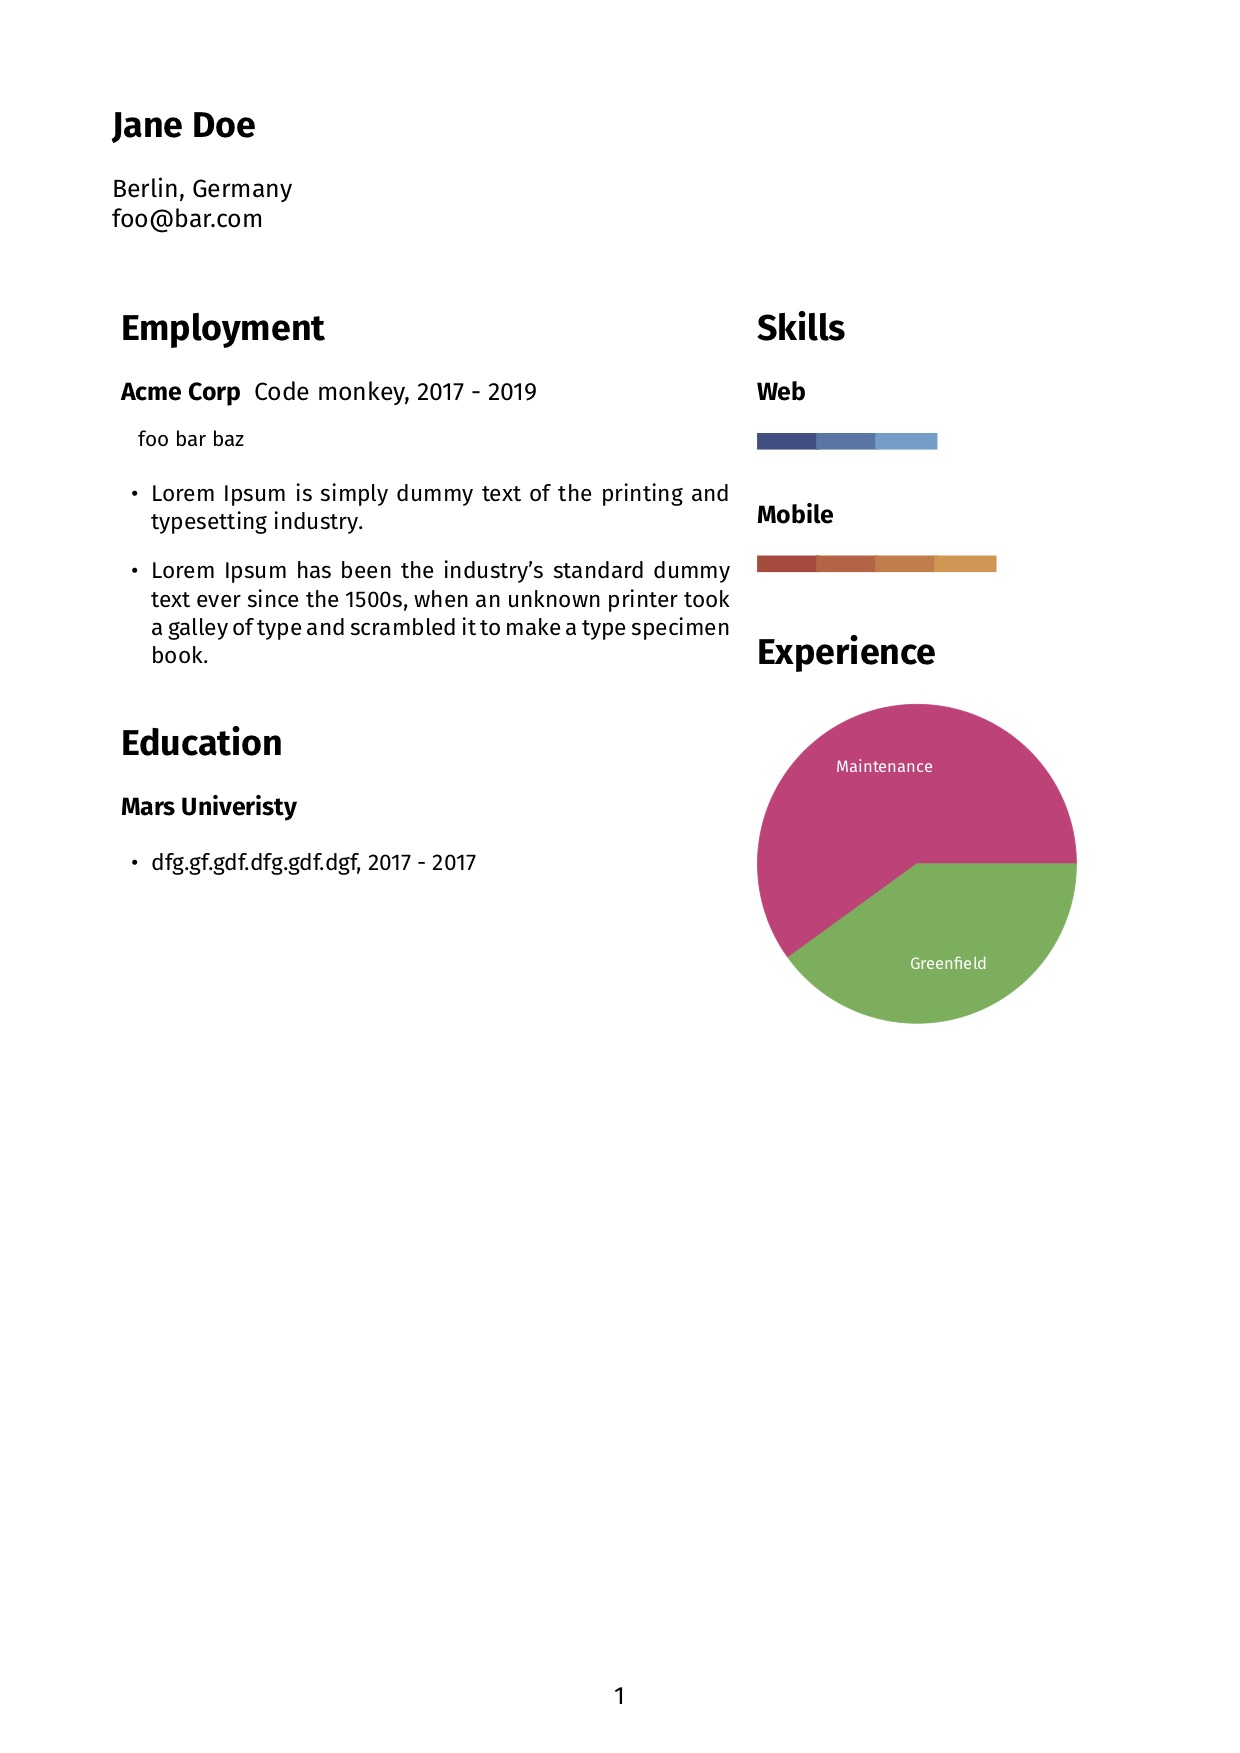
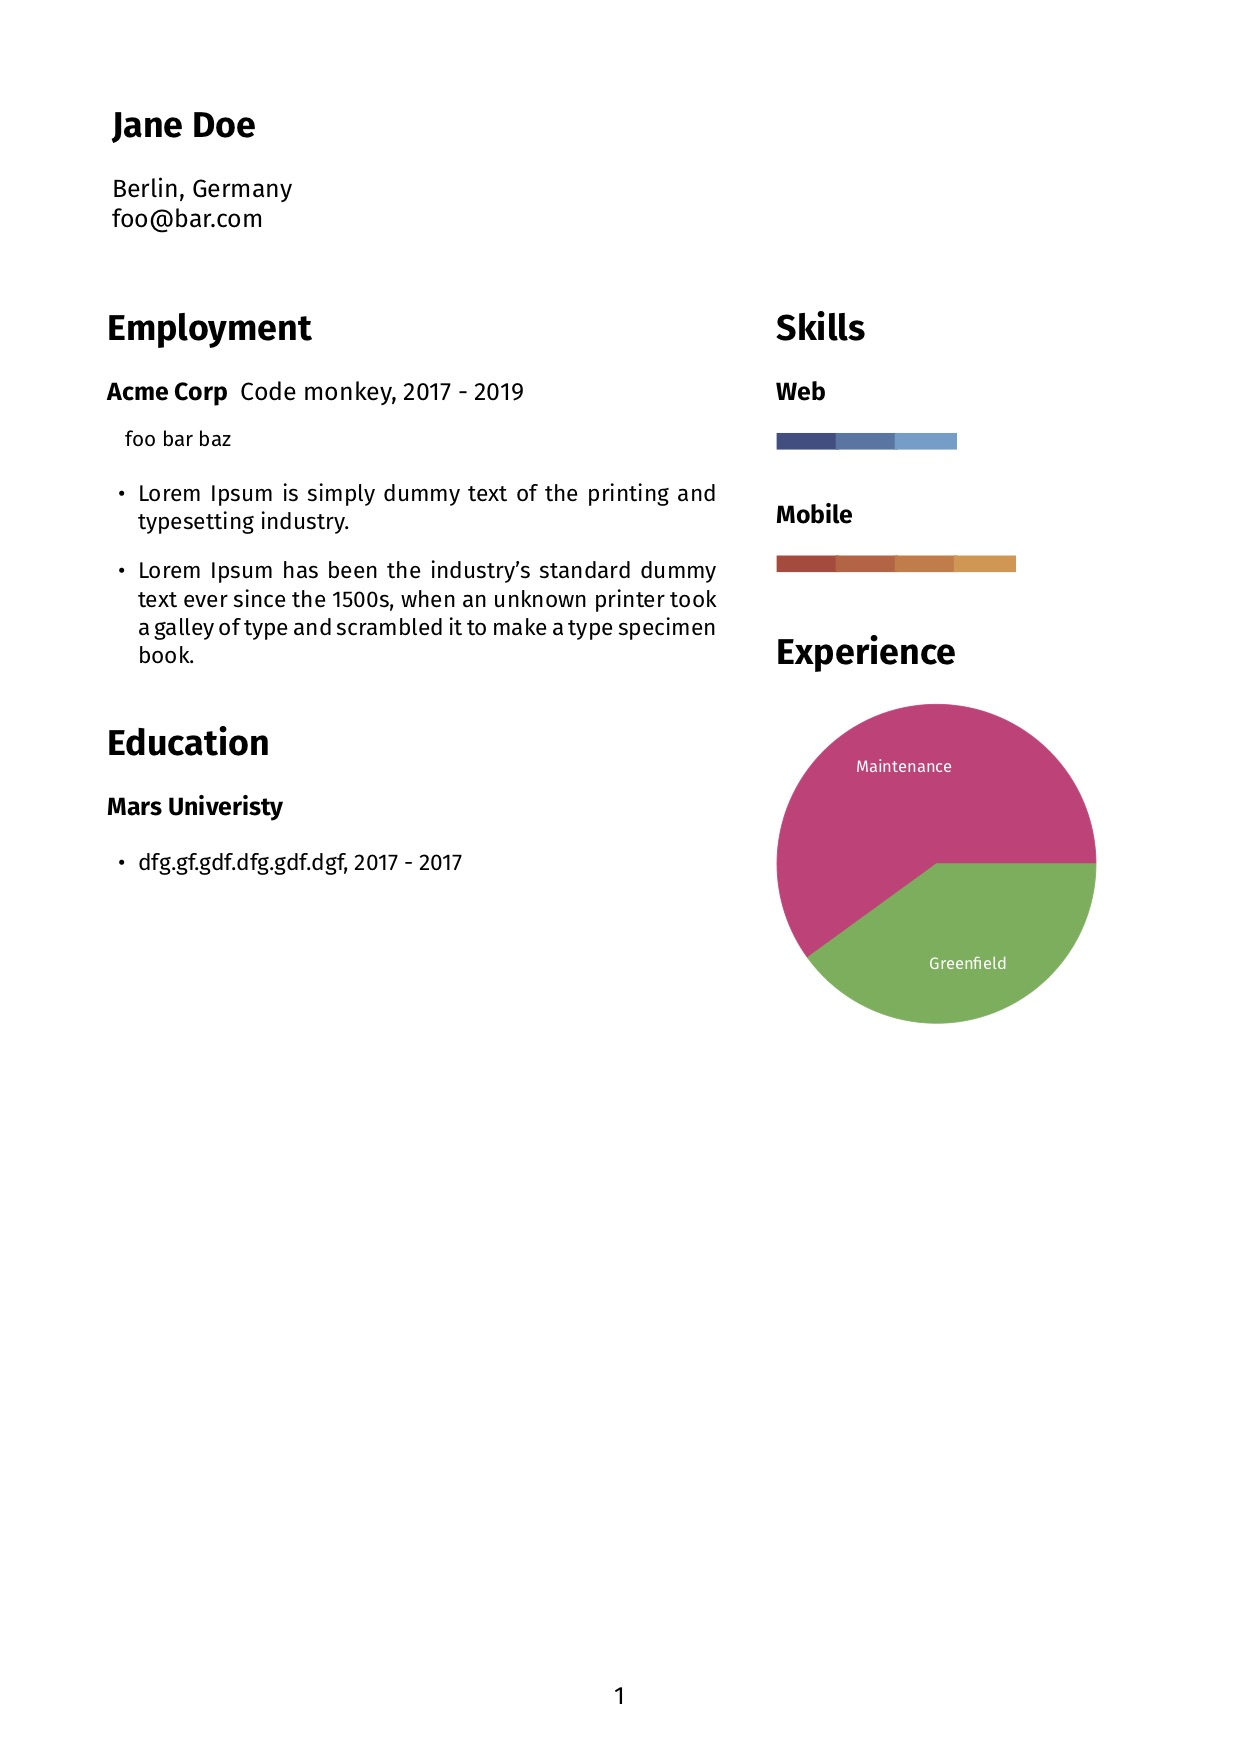
Updated layout

diff --git a/templates/resume.tex b/templates/resume.tex
@@ -8,12 +8,12 @@
 
 \vspace{0.05\textheight}
 
-\hspace*{-\parindent}
+\hspace*{-0.05\textwidth}
 \begin{minipage}[t]{0.6\textwidth}
 <% include "employment.tex" %>
 <% include "education.tex" %>
 \end{minipage}
-\hspace*{-\parindent}
+\noindent
 \hspace{0.05\textwidth}
 \begin{minipage}[t]{0.395\textwidth}
 <% include "skills.tex" %>
